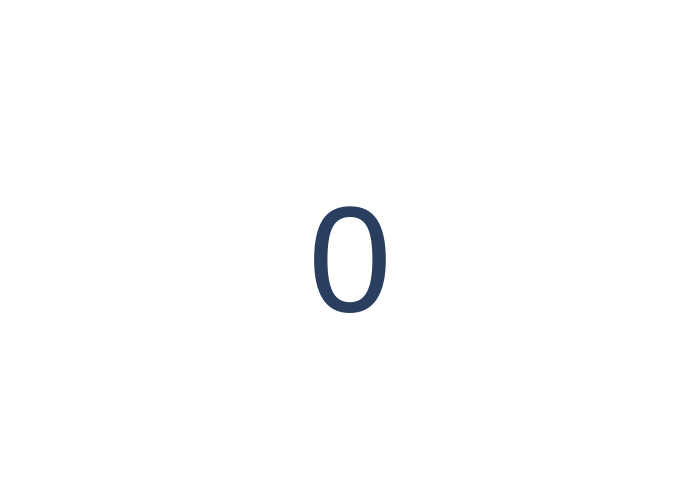
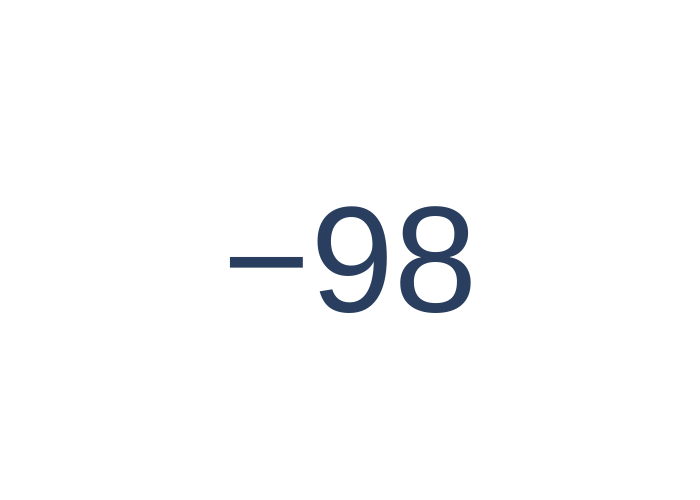
working but not tried gps and water sensors

Changed region(s): [[0.57, 0.39, 0.69, 0.63], [0.33, 0.45, 0.54, 0.6], [0.51, 0.42, 0.54, 0.45]]

diff --git a/main/raspi-blinka.py b/main/raspi-blinka.py
@@ -1,0 +1,143 @@
+"""
+Adafruit Raspberry Pi Blinka Setup Script
+(C) Adafruit Industries, Creative Commons 3.0 - Attribution Share Alike
+
+Written by Melissa LeBlanc-Williams for Adafruit Industries
+"""
+
+import os
+import sys
+
+try:
+    from adafruit_shell import Shell
+except ImportError:
+    raise RuntimeError("The library 'adafruit_shell' was not found. To install, try typing: sudo pip3 install adafruit-python-shell")
+
+shell = Shell()
+shell.group="Blinka"
+default_python = 3
+blinka_minimum_python_version = 3.7
+
+def default_python_version(numeric=True):
+    version = shell.run_command("python -c 'import platform; print(platform.python_version())'", suppress_message=True, return_output=True)
+    if numeric:
+        try:
+            return float(version[0:version.rfind(".")])
+        except ValueError:
+            return None
+    return version
+
+def get_python3_version(numeric=True):
+    version = shell.run_command("python3 -c 'import platform; print(platform.python_version())'", suppress_message=True, return_output=True)
+    if numeric:
+        return float(version[0:version.rfind(".")])
+    return version
+
+def check_blinka_python_version():
+    """
+    Check the Python 3 version for Blinka (which may be a later version than we're running this script with)
+    """
+    print("Making sure the required version of Python is installed")
+    current = get_python3_version(False)
+    current_major, current_minor = current.split(".")[0:2]
+    required_major, required_minor = str(blinka_minimum_python_version).split(".")[0:2]
+
+    if int(current_major) >= int(required_major) and int(current_minor) >= int(required_minor):
+        return
+
+    shell.bail("Blinka requires a minimum of Python version {} to install, current one is {}. Please update your OS!".format(blinka_minimum_python_version, current))
+
+def sys_update():
+    print("Updating System Packages")
+    if not shell.run_command("sudo apt-get update --allow-releaseinfo-change"):
+        shell.bail("Apt failed to update indexes!")
+    print("Upgrading packages...")
+    if not shell.run_command("sudo apt-get -y upgrade"):
+        shell.bail("Apt failed to install software!")
+
+def set_raspiconfig():
+    """
+    Enable various Raspberry Pi interfaces
+    """
+    print("Enabling I2C")
+    shell.run_command("sudo raspi-config nonint do_i2c 0")
+    print("Enabling SPI")
+    shell.run_command("sudo raspi-config nonint do_spi 0")
+    print("Enabling Serial")
+    if not shell.run_command("sudo raspi-config nonint do_serial_hw 0", suppress_message=True):
+        shell.run_command("sudo raspi-config nonint do_serial 0")
+    print("Enabling SSH")
+    shell.run_command("sudo raspi-config nonint do_ssh 0")
+    print("Enabling Camera")
+    shell.run_command("sudo raspi-config nonint do_camera 0")
+    print("Disable raspi-config at Boot")
+    shell.run_command("sudo raspi-config nonint disable_raspi_config_at_boot 0")
+
+def update_python():
+    print("Making sure Python 3 is the default")
+    if default_python < 3:
+        shell.run_command("sudo apt-get install -y python3 git python3-pip")
+        shell.run_command("sudo update-alternatives --install /usr/bin/python python $(which python2) 1")
+        shell.run_command("sudo update-alternatives --install /usr/bin/python python $(which python3) 2")
+        shell.run_command("sudo update-alternatives --skip-auto --config python")
+
+def update_pip():
+    print("Making sure PIP and setuptools is installed")
+    shell.run_command("sudo apt-get install --upgrade -y python3-pip python3-setuptools")
+
+def install_blinka(user=False):
+    print("Installing latest version of Blinka locally")
+    shell.run_command("sudo apt-get install -y i2c-tools libgpiod-dev python3-libgpiod")
+    pip_command = "pip3 install --upgrade"
+    username = None
+    if user:
+        username = os.environ["SUDO_USER"]
+    shell.run_command(f"{pip_command} RPi.GPIO", run_as_user=username)
+    shell.run_command(f"{pip_command} adafruit-blinka", run_as_user=username)
+
+def main():
+    global default_python
+    shell.clear()
+    # Check Raspberry Pi and Bail
+    pi_model = shell.get_board_model()
+    print("""This script configures your
+Raspberry Pi and installs Blinka
+""")
+    print("{} detected.\n".format(pi_model))
+    if not shell.is_raspberry_pi():
+        shell.bail("Non-Raspberry Pi board detected. This must be run on a Raspberry Pi")
+    os_identifier = shell.get_os()
+    if os_identifier != "Raspbian":
+        shell.bail("Sorry, the OS detected was {}. This script currently only runs on Raspberry Pi OS.".format(os_identifier))
+    if not shell.is_python3():
+        shell.bail("You must be running Python 3. Older versions have now been deprecated.")
+    shell.check_kernel_update_reboot_required()
+    python_version = default_python_version()
+    if not python_version:
+        shell.warn("WARNING No Default System python tied to the `python` command. It will be set to Version 3.")
+        default_python = 0
+        if not shell.prompt("Continue?"):
+            shell.exit()
+    elif int(default_python_version()) < 3:
+        shell.warn("WARNING Default System python version is {}. It will be updated to Version 3.".format(default_python_version(False)))
+        default_python = 2
+        if not shell.prompt("Continue?"):
+            shell.exit()
+    sys_update()
+    check_blinka_python_version()
+    set_raspiconfig()
+    update_python()
+    update_pip()
+    install_blinka(True)
+
+    # Done
+    print("""DONE.
+
+Settings take effect on next boot.
+""")
+    shell.prompt_reboot()
+
+# Main function
+if __name__ == "__main__":
+    shell.require_root()
+    main()

diff --git a/main/model/motorHomeModel.py b/main/model/motorHomeModel.py
@@ -6,6 +6,7 @@ import board
 import digitalio
 import time
 import bitbangio
+import inspect
 from model.modules import coolingLevel
 from model.modules import temperatureSensors
 from model.modules import fuelLevel
@@ -14,7 +15,7 @@ from model.modules import gps
 
 class Model:
     def __init__(self,controller):
-        self.initMCP()
+        #self.initMCP()
         self.controller = controller
         self.coolingLevel = coolingLevel.coolingLevel()
         self.engineTemp = engineTemp.engineTemp()
@@ -28,14 +29,15 @@ class Model:
         #GPIO.setup (14,GPIO.IN, pull_up_down=GPIO.PUD_DOWN) do this on fuellevel pin
 
     def logicMain(self):
+        self.reverse = GPIO.input(11)
         while True:
             self.__updateEngineTemperature()
             self.__updateAlltemperatures()
             time.sleep(1)
             self.__updateCoolantLevel()
             self.__updateGPS()
-            if GPIO.input(11) != reverse:
-                reverse = GPIO.input(11)
+            if GPIO.input(11) != self.reverse:
+                self.reverse = GPIO.input(11)
                 #HERE WE CHANGE BETWEEN SCREENS
             #self.__updateFuelLevel()
             #resistorValue = self.mcp.read_adc(0)
@@ -43,9 +45,9 @@ class Model:
 
     def initMCP(self):
             cs = digitalio.DigitalInOut(board.D29)
-            cs.direction = digitalio.Direction.OUTPUT
-            cs.value = True
-            spi = bitbangio.SPI(board.D33, MISO=board.D31,MOSI=board.D35)
+            #cs.direction = digitalio.Direction.OUTPUT
+            #cs.value = True
+            #spi = bitbangio.SPI(board.D33, MISO=board.D31,MOSI=board.D35)
             # Hardware SPI configuration:
             #SPI_PORT   = 0
             #SPI_DEVICE = 0

diff --git a/main/model/modules/gps.py b/main/model/modules/gps.py
@@ -7,12 +7,12 @@ class gps:
     #Reads GPS from GPIO15 RXD
     def __init__(self):
         port='/dev/serial0'
-        ser=serial.Serial(port,baudrate=9600,timeout=0.5)
+        self.ser=serial.Serial(port,baudrate=9600,timeout=0.5)
         dataout =pynmea2.NMEAStreamReader()
     #Reads GPS lat, long and speed. Convert speed in knots to kmh return INT
     def getSpeed(self):
         try: 
-            newdata=ser.readline()
+            newdata=self.ser.readline()
             if (newdata[0:6]).decode() =='$GPRMC':
                 newmsg=pynmea2.parse(newdata.decode())
                 lat=str(newmsg.latitude)
@@ -20,6 +20,7 @@ class gps:
                 speed=str(newmsg.spd_over_grnd)
                 speed = int((float(speed)*1.85))
                 return speed
-            return 98
-        except:
-            return 99
+            return -98
+        except Exception as error:
+            print("An error occurred:", error)
+            return -99

diff --git a/main/husbil.py b/main/husbil.py
@@ -16,8 +16,6 @@ class MotorHomeApplication(tk.Tk):
         cwd = os.getcwd()
         print("working dir: {0}".format(cwd))
         os.chdir('/home/robin/husbil/motorhome_application/main')
-        cwd = os.getcwd()
-        print("working dir: {0}".format(cwd)) 
         self.title("MotorHome sensor and reversing camera application")
         #Set the Geometry
         self.geometry("800x480")
@@ -54,8 +52,8 @@ class MotorHomeApplication(tk.Tk):
         
         th = threading.Thread(target=self.mod.logicMain)
         th.start()
-        #th2 = threading.Thread(target=self.th_camera)
-        #th2.start()
+        th2 = threading.Thread(target=self.th_camera)
+        th2.start()
         
         self.show_frame("reversingCamera")
         #self.engineSensorView.updateEngineTemp(75)

diff --git a/main/model/modules/coolingLevel.py b/main/model/modules/coolingLevel.py
@@ -23,9 +23,9 @@ class coolingLevel:
             self.slidingWindow.pop()
             self.slidingWindow.pop()
         i = sum(self.slidingWindow)
-        print(self.slidingWindow)
-        print(lowState)
-        print(highState)
+        #print(self.slidingWindow)
+        #print(lowState)
+        #print(highState)
         if len(self.slidingWindow) > 15:
             if i > 30:
                 return 1

diff --git a/main/gui/reversingCamera.py b/main/gui/reversingCamera.py
@@ -36,6 +36,7 @@ class reversingCamera(tk.Frame):
         try:
             ret, frame = cap.read()
             if ret==True:
+                print("revser CAMERA")
                 frame = cv2.resize(frame,(800,450),fx=0,fy=0, interpolation = cv2.INTER_CUBIC)
                 cv2image = cv2.cvtColor(frame, cv2.COLOR_BGR2RGBA)
                 img = Image.fromarray(cv2image)

diff --git a/main/model/modules/temperatureSensors.py b/main/model/modules/temperatureSensors.py
@@ -16,8 +16,8 @@ class temperatureSensors:
         return
 
     def read_temp(self,temp):
-        print(indoorTemp)
-        print(outdoorTemp)
+        #print(indoorTemp)
+        #print(outdoorTemp)
         if temp == 'outdoor':
            lines = self.read_temp_raw(outdoorTemp)
            while lines[0].strip()[-3:] != 'YES':

diff --git a/main/model/modules/engineTemp.py b/main/model/modules/engineTemp.py
@@ -22,3 +22,4 @@ class engineTemp:
         tempC = int(((tempC-17)*100)/91)
         print("Temperature: {} C ".format(tempC))
         return tempC
+
